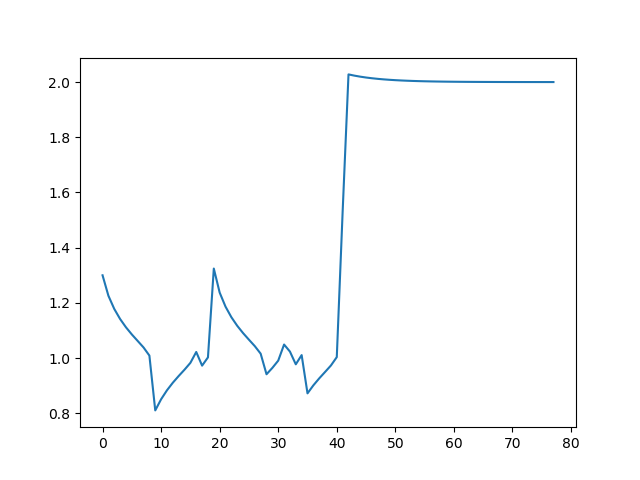
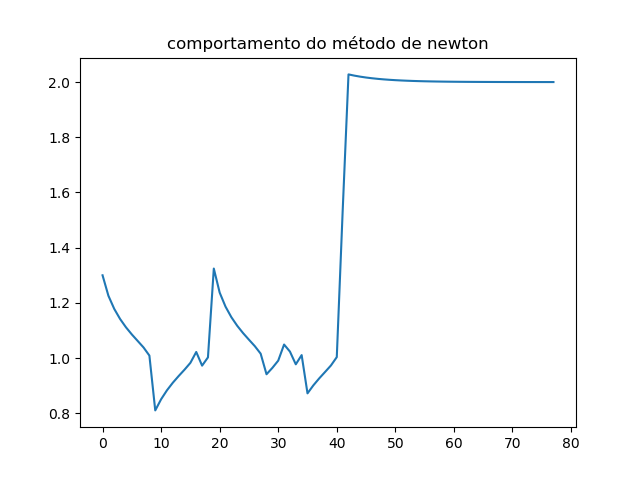
Atualização e os valores para a tabela

Changed region(s): [[0.25, 0.0625, 0.75, 0.125]]

diff --git a/FalsaPosição.py b/FalsaPosição.py
@@ -4,45 +4,42 @@ import math
 
 
 def f(x):
-    return cos(x) + 1
-
+    return (x - 1.44)**5
 
 def bissecao(a, b, erro, num, graf):
     for i in range(num):
         fa = f(a)
         fb = f(b)
-        
-        if (fa * fb) < erro:
-            xn = ((a * fb) - (b * fa)) / (fb - fa)
-            fxn = f(xn)
-            fxnabs = abs(fxn)
-            graf.append(xn)
+        xn = ((a * fb) - (b * fa)) / (b - a)
+        fxn = f(xn)
+        fxnabs = abs(fxn)
+        graf.append(xn)
             
-            if fxn < 0:
-                if fb < 0:
-                    b = xn
-                    if fxnabs < erro:
-                        return xn
-                else:
-                    a = xn
-                    if fxnabs < erro:
-                        return xn
+        if fxn < 0:
+            if fb < 0:
+                b = xn
+                if fxnabs < erro:
+                    return xn
             else:
-                if fb > 0:
-                    b = xn
-                    if fxnabs < erro:
-                        return xn
-                else:
-                    a = xn
-                    if fxnabs < erro:
-                        return xn
+                a = xn
+                if fxnabs < erro:
+                    return xn
+        else:
+            if fb > 0:
+                b = xn
+                if fxnabs < erro:
+                    return xn
+            else:
+                a = xn
+                if fxnabs < erro:
+                    return xn
     
     print("NÚMERO MÁXIMO DE ITERAÇÕES!")
 
 
-a = 1
-b = 3
-num = 100
+a = 0.1
+b = 1.5
+num = 10000
 erro = 10**-6
 graf = []
  

diff --git a/Bisseção.py b/Bisseção.py
@@ -4,7 +4,7 @@ import math
 
 
 def f(x):
-    return cos(x) + 1
+    return (x - 1.44)**5
 
 
 def bissecao(a, b, erro, num, graf):
@@ -12,36 +12,35 @@ def bissecao(a, b, erro, num, graf):
         fa = f(a)
         fb = f(b)
         
-        if (fa * fb) < erro:
-            xn = (a + b)/2
-            fxn = f(xn)
-            fxnabs = abs(fxn)
-            graf.append(xn)
+        xn = (a + b)/2
+        fxn = f(xn)
+        fxnabs = abs(fxn)
+        graf.append(xn)
             
-            if fxn < 0:
-                if fb < 0:
-                    b = xn
-                    if fxnabs < erro:
-                        return xn
-                else:
-                    a = xn
-                    if fxnabs < erro:
-                        return xn
+        if fxn < 0:
+            if fb < 0:
+                b = xn
+                if fxnabs < erro:
+                    return xn
             else:
-                if fb > 0:
-                    b = xn
-                    if fxnabs < erro:
-                        return xn
-                else:
-                    a = xn
-                    if fxnabs < erro:
-                        return xn
+                a = xn
+                if fxnabs < erro:
+                    return xn
+        else:
+            if fb > 0:
+                b = xn
+                if fxnabs < erro:
+                    return xn
+            else:
+                a = xn
+                if fxnabs < erro:
+                    return xn
     
     print("NÚMERO MÁXIMO DE ITERAÇÕES!")
 
 
-a = 2
-b = 3
+a = 1
+b = 1.5
 num = 10000
 erro = 10**-6
 graf = []

diff --git a/bissecção.c b/bissecção.c
@@ -2,19 +2,19 @@
 #include <stdlib.h>
 #include <math.h>
 
-float f(float x)
+double f(double x)
 {
     double fx;
 
-    fx = pow(x, 3) - 9 * x + 5;
+    fx = 10 + pow((x - 2), 2) - 10 * cos(2 * 3.1415926 * x);
 
     return fx;
 }
 
-float raiz(float a, float b, float precisao, int reps)
+double raiz(double a, double b, double precisao, int reps)
 {
     int i;
-    float fa, fb, fxn, fxnabs, x0;
+    double fa, fb, fxn, fxnabs, x0;
 
     for(i = 0; i < reps; i++)
     {
@@ -89,12 +89,12 @@ float raiz(float a, float b, float precisao, int reps)
 int main()
 {
     int i, reps;
-    float a, b, precisao;
+    double a, b, precisao;
 
     a = 0.5; //intervalo no eixo x
     b = 1;  //intervalo mo eixo x
-    reps = 100; //numero de iterações
-    precisao = pow(10, -2); //precisão
+    reps = 10000; //numero de iterações
+    precisao = pow(10, -6); //precisão
     raiz(a, b, precisao, reps);
 
 

diff --git a/Newton.py b/Newton.py
@@ -3,9 +3,10 @@ import matplotlib.pyplot as plt
 import math
 
 def f(x):
-    return 10 + (x - 2)**2 - 10 * math.cos(2 * 3.1415926 * x)
+    return (x - 1.44)**5
+
 def df(x): 
-    return 2 * 3.1415926 * x + 20 * (3.1415926)**2 * math.sin(2 * 3.1415926 * x) - 4 * 3.1415926
+    return 5*(x-1.44)**4
 
 def newton(x, erro, num, graf):
     cont = 0
@@ -24,15 +25,20 @@ def newton(x, erro, num, graf):
     print("NÚMERO MÁXIMO DE ITERAÇÕES!")
 
 
-x = 1.3
+fig = plt.figure()
+ax = fig.add_subplot(111);
+x = 1
 num = 100000
 erro = 10**-6
 graf = []
+
+
  
 aux = newton(x, erro, num, graf)
                
 plt.plot(graf)
 plt.show
-
+ax.set_title("comportamento do método de newton")
 print("Raiz: ", aux)
+
         

diff --git a/Secante.py b/Secante.py
@@ -3,7 +3,8 @@ import matplotlib.pyplot as plt
 import math
 
 def f(x):
-    return 10 + (x - 2)**2 - 10 * math.cos(2 * 3.1415926 * x)
+    return (x - 1.44)**5
+
 def secante(a, b, erro, num, graf):    
     for i in range(num):
         fa = f(a)
@@ -18,18 +19,21 @@ def secante(a, b, erro, num, graf):
         else:
             a = b
             b = xn
+            
 
     print("NÚMERO MÁXIMO DE ITERAÇÕES!")
 
-
+#fig = plt.figure()
+# = fig.add_subplot(111);
 a = 1
-b = 2.2
+b = 2
 num = 1000000
 erro = 10**-6
 graf = []
- 
+
 aux = secante(a, b, erro, num, graf)
                
 plt.plot(graf)
+#ax.set_title("comportamento do método da secante")
 plt.show
 print("Raiz: ", aux)

diff --git a/Pontofixo.py b/Pontofixo.py
@@ -1,20 +1,21 @@
 from __future__ import division
 import matplotlib.pyplot as plt
+import math
 
 
 def f(x):
-    return x-(x**2-1)
+    return (x - 1.44)**5
 
 
 def g(x):
-    return  math.exp(x) -x -1
+    return  x - 3 * math.cos(x + 1)
 
 def ponto_fixo(x, error, num, graf):
     for i in range(1,num):
         fxn = f(x)
         graf.append(x)
         
-        if abs(x - (x - 1)) < error:
+        if abs(x - (x-1)) < error:
             return x
         else:
             x = g(x)
@@ -24,7 +25,7 @@ def ponto_fixo(x, error, num, graf):
 
 x = 1
 error = 10**-6
-num = 1000000
+num = 100000
 graf = []
 
 aux = ponto_fixo(x, error, num, graf)
